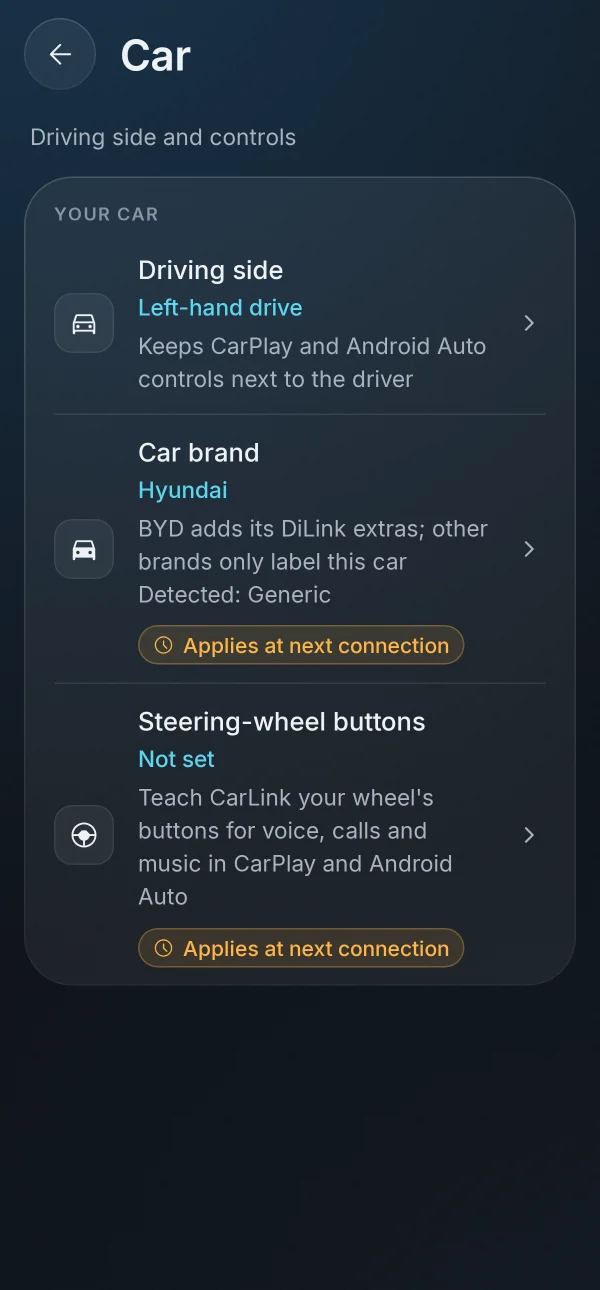
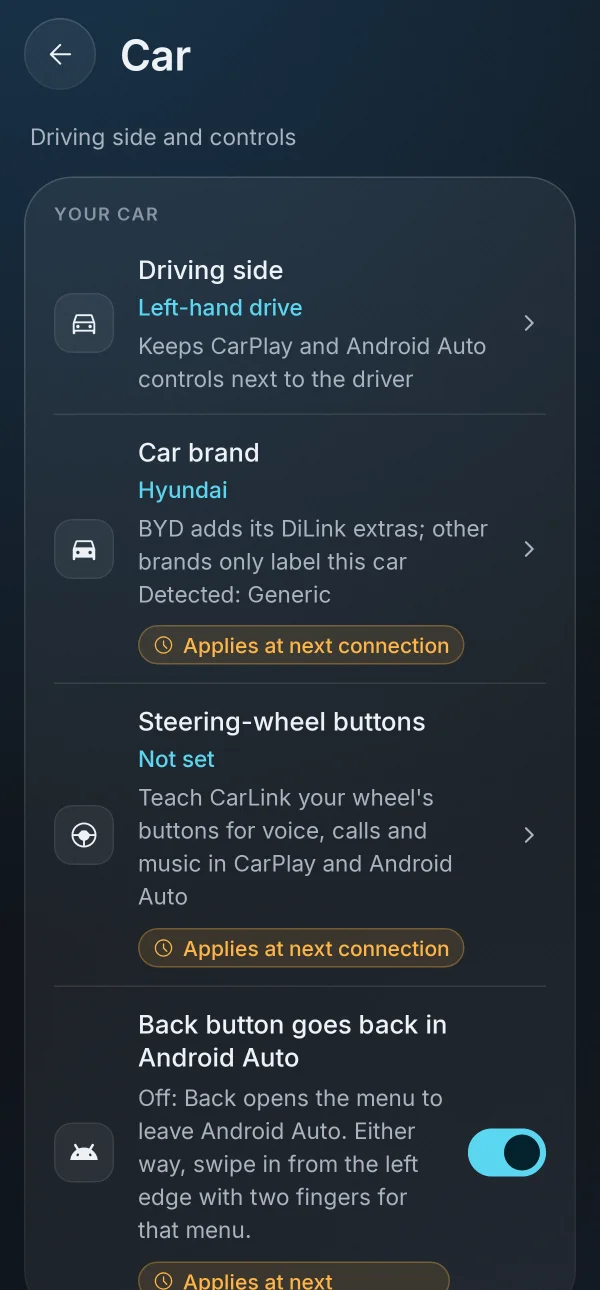
Send the head unit's Back key to Android Auto
Back inside the Android Auto picture opened DiAuto's exit menu, so a
driver could not go back a screen with the stereo's own key (#72).
DiAuto already routes Back to the phone when its keymap holds a Back
entry (ProjectionKeyPolicy), so the session now writes Back-to-Back
into key-codes unless the new Car setting is off. No engine change.
The two-finger edge swipe still opens the menu, and Home cannot be
taken: Android delivers it to the system, never to the activity.

diff --git a/app/src/main/java/com/carlink/app/ui/settings/SettingsPages.kt b/app/src/main/java/com/carlink/app/ui/settings/SettingsPages.kt
@@ -61,7 +61,7 @@ internal fun CategoryPage(
             SettingsCategory.DISPLAY -> DisplayEssentials(ui, openSheet)
             SettingsCategory.SOUND -> SoundEssentials(ui, actions, openSheet)
             SettingsCategory.NAVIGATION -> NavigationEssentials(ui, actions)
-            SettingsCategory.CAR -> CarEssentials(ui, openSheet)
+            SettingsCategory.CAR -> CarEssentials(ui, actions, openSheet)
             SettingsCategory.GENERAL -> GeneralEssentials(ui, actions, openSheet, versionTaps, onVersionTap)
         }
         if (ui.unified.showAdvanced) EngineSection(category, Tier.ADVANCED, ui, actions, openSheet)
@@ -271,7 +271,7 @@ private fun NavigationEssentials(ui: SettingsUi, actions: SettingsActions) {
 }
 
 @Composable
-private fun CarEssentials(ui: SettingsUi, openSheet: (String) -> Unit) {
+private fun CarEssentials(ui: SettingsUi, actions: SettingsActions, openSheet: (String) -> Unit) {
     val right = ui.unified.rightHandDrive
     GlassGroup(header = { GroupHeader(stringResource(R.string.carlink_settings_group_car)) }) {
         ChoiceRow(stringResource(R.string.carlink_settings_driving_side),
@@ -290,6 +290,11 @@ private fun CarEssentials(ui: SettingsUi, openSheet: (String) -> Unit) {
             else pluralStringResource(R.plurals.carlink_wheel_keys_value, learned, learned),
             { openSheet(SheetKey.of(EssentialSheet.WHEEL_KEYS)) },
             description = stringResource(R.string.carlink_wheel_keys_detail), icon = R.drawable.carlink_ic_search_hands_free,
+            tags = { NextConnectionTag() })
+        GroupDivider()
+        SwitchRow(stringResource(R.string.carlink_settings_aa_back), ui.unified.androidAutoBack,
+            { on -> actions.update { it.copy(androidAutoBack = on) } },
+            description = stringResource(R.string.carlink_settings_aa_back_detail), icon = R.drawable.carlink_ic_android,
             tags = { NextConnectionTag() })
     }
 }

diff --git a/carlink-core/src/main/java/com/carlink/core/connection/aa/AaSessionSettings.kt b/carlink-core/src/main/java/com/carlink/core/connection/aa/AaSessionSettings.kt
@@ -34,6 +34,8 @@ data class AaSessionValues(val values: Map<String, Any>, val problem: String? = 
  * The wake-poke targets (`auto-start-bt-macs`) are set by the ":aa" receiver at start.
  */
 object AaSessionSettings {
+    private const val BACK = android.view.KeyEvent.KEYCODE_BACK
+
     /**
      * @param panelDensityDpi the head unit's own density, which scales Android Auto's interface.
      * @param wifi the car's Wi-Fi right now; Same Wi-Fi needs its client interface and the router's BSSID.
@@ -104,7 +106,10 @@ object AaSessionSettings {
             put("gps-navigation", settings.sendCarLocation)
             // The learned steering-wheel buttons, in DiAuto's own keymap (logical-physical), which
             // CommManager.sendKey applies to every key route. CarLink owns the keymap: always written.
-            put("key-codes", WheelKeys.diAutoKeyCodes(settings.wheelKeys))
+            // Back mapped to itself makes AapProjectionActivity send it to the phone instead of opening
+            // its exit menu (ProjectionKeyPolicy, #72); the two-finger edge swipe still opens the menu.
+            put("key-codes", WheelKeys.diAutoKeyCodes(settings.wheelKeys) +
+                if (settings.androidAutoBack) setOf("$BACK-$BACK") else emptySet())
             // Sound levels as DiAuto's own offsets. Android Auto's speech channel (DiAuto's "assistant")
             // carries the spoken directions as well as the Assistant, and its system channel (DiAuto's
             // "navigation") the prompts' chimes, so both follow the navigation level. Calls are not

diff --git a/carlink-core/src/test/java/com/carlink/core/settings/WheelKeysTest.kt b/carlink-core/src/test/java/com/carlink/core/settings/WheelKeysTest.kt
@@ -53,10 +53,10 @@ class WheelKeysTest {
     @Test fun bothEnginesReceiveTheMapping() {
         val settings = UnifiedSettings(wheelKeys = mapOf(WheelAction.VOICE to 84, WheelAction.HANG_UP to 601))
         val aa = AaSessionSettings.values(settings, Transport.USB, null, VehicleProfile.GENERIC, "Car", 160).values
-        assertEquals(setOf("231-84", "6-601"), aa["key-codes"])
-        // Nothing learnt: DiAuto's keymap is cleared, not left from an earlier session.
-        assertEquals(emptySet<String>(), AaSessionSettings.values(UnifiedSettings(), Transport.USB, null, VehicleProfile.GENERIC,
-            "Car", 160).values["key-codes"])
+        assertEquals(setOf("231-84", "6-601", "4-4"), aa["key-codes"])
+        // Nothing learnt and Back left to the menu (#72): DiAuto's keymap is cleared, not left from an earlier session.
+        assertEquals(emptySet<String>(), AaSessionSettings.values(UnifiedSettings(androidAutoBack = false), Transport.USB, null,
+            VehicleProfile.GENERIC, "Car", 160).values["key-codes"])
 
         val cp = CarPlaySettingsPolicy.map(settings, null, VehicleProfile.GENERIC, true)
         assertEquals(mapOf(84 to KeyEvent.KEYCODE_VOICE_ASSIST, 601 to KeyEvent.KEYCODE_ENDCALL), cp.wheelKeyRemap)

diff --git a/carlink-core/src/main/java/com/carlink/core/settings/UnifiedSettings.kt b/carlink-core/src/main/java/com/carlink/core/settings/UnifiedSettings.kt
@@ -44,6 +44,8 @@ data class UnifiedSettings(
     val sameWifiWired: Boolean = false,
     /** Software gain on the microphone sent to the phone ([AudioLevels.MIC_DB]). */
     val micGainDb: Int = 0,
+    /** The head unit's Back key goes back inside Android Auto (GitHub #72); off, it opens the session menu. */
+    val androidAutoBack: Boolean = true,
 )
 
 data class WifiDetails(val ssid: String = "", val password: String = "")
@@ -94,6 +96,7 @@ class UnifiedSettingsStore(context: Context) {
         duckMusicForDirections = prefs.getBoolean("duck_music_directions", true),
         sameWifiWired = prefs.getBoolean("same_wifi_wired", false),
         micGainDb = prefs.getInt("mic_gain_db", 0),
+        androidAutoBack = prefs.getBoolean("android_auto_back", true),
     )
 
     fun save(settings: UnifiedSettings) {
@@ -124,6 +127,7 @@ class UnifiedSettingsStore(context: Context) {
             .putBoolean("duck_music_directions", settings.duckMusicForDirections)
             .putBoolean("same_wifi_wired", settings.sameWifiWired)
             .putInt("mic_gain_db", settings.micGainDb)
+            .putBoolean("android_auto_back", settings.androidAutoBack)
             .apply()
     }
 

diff --git a/app/src/main/java/com/carlink/app/ui/settings/SettingsBackup.kt b/app/src/main/java/com/carlink/app/ui/settings/SettingsBackup.kt
@@ -58,6 +58,7 @@ object SettingsBackup {
         Field(UNIFIED, "show_advanced", Type.BOOL),
         Field(UNIFIED, "lab_unlocked", Type.BOOL),
         Field(UNIFIED, "wheel_keys", Type.STRING),
+        Field(UNIFIED, "android_auto_back", Type.BOOL),
         Field(CARLINK, "auto_connect_usb", Type.BOOL),
         Field(CARLINK, "auto_connect_bluetooth", Type.BOOL),
         Field(CARLINK, "start_on_boot", Type.BOOL),

diff --git a/carlink-core/src/test/java/com/carlink/core/settings/SettingsStoresTest.kt b/carlink-core/src/test/java/com/carlink/core/settings/SettingsStoresTest.kt
@@ -44,6 +44,7 @@ class SettingsStoresTest {
             resumeMusic = true,
             duckMusicForDirections = false,
             micGainDb = 9,
+            androidAutoBack = false,
         )
         UnifiedSettingsStore(app).save(settings)
         // A new instance reads what the old one wrote.

diff --git a/CHANGELOG.md b/CHANGELOG.md
@@ -6,6 +6,9 @@ is what the in-app update popup shows.
 
 ## [Unreleased]
 
+- The head unit's Back button now goes back inside Android Auto instead of opening the menu to
+  leave it (#72). Turn it off in Settings › Car › Back button goes back in Android Auto; the
+  two-finger swipe from the left edge still opens the menu. Home stays the system's.
 - Android Auto's audio buffer and audio queue can be set under Settings › Sound & voice › Show
   advanced (smaller = less music delay, larger = less stutter; from the next connection). Defaults
   are unchanged (#86).
